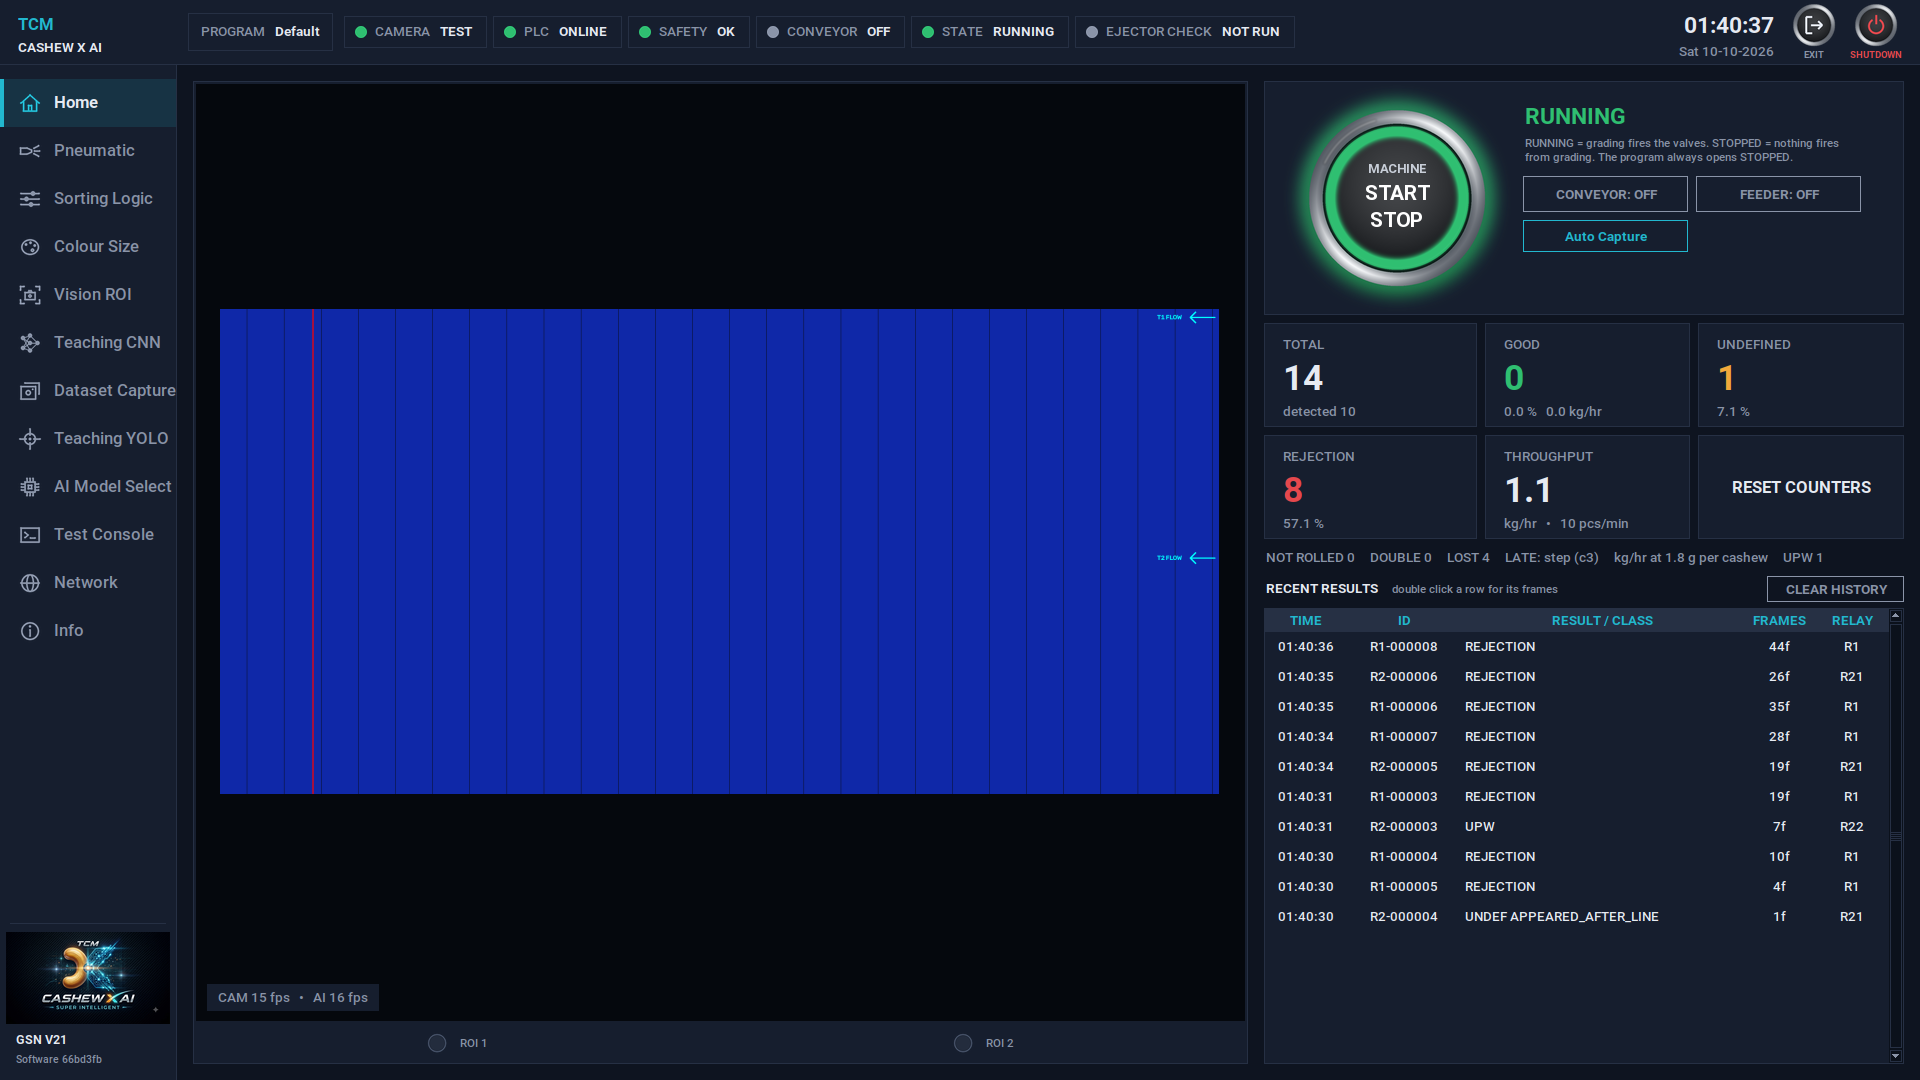
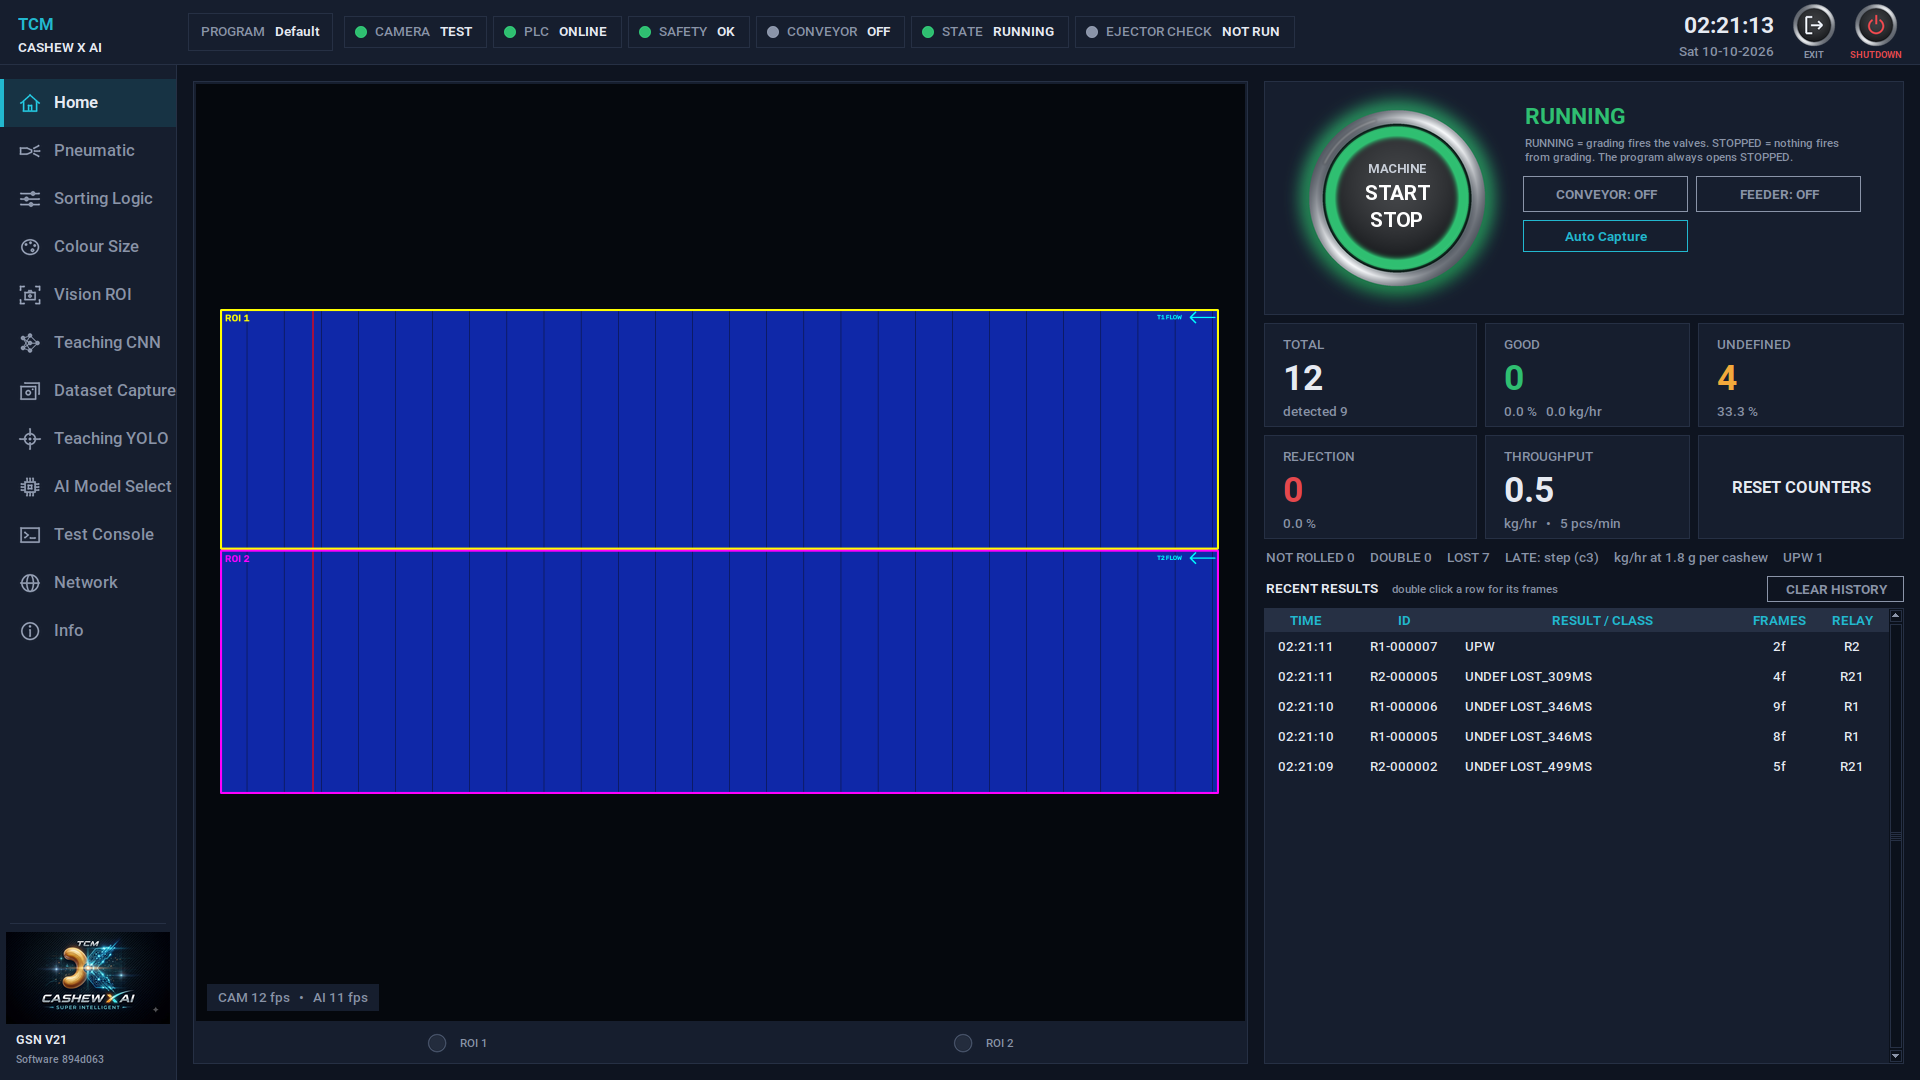
Home: ROI boxes drawn again while RUNNING; LOST rows log where the cashew was seen
The running view shows only the ROI crops and never drew the boxes; they are
now drawn just inside each ROI (ROI 1 yellow, ROI 2 magenta) with the name.
A LOST row now records first / last position, box size, speed and the nearest
other cashew, so the cause can be read from logs/cashews_*.csv.

diff --git a/cashew_cnn_grader.py b/cashew_cnn_grader.py
@@ -1330,6 +1330,13 @@ class ProcessingThread(threading.Thread):
                     self._decide_track(trk, rid, line, state, t_ms)
                 self._draw_track(frame, trk, grading)
 
+        # ROI boxes while RUNNING. The Home view shows only the ROI crops, so the frame is drawn just inside the ROI
+        # (a box on the ROI edge itself would be cut away) and the name sits inside it.
+        for (rid, roi), colour in zip(((1, state.get("roi1")), (2, state.get("roi2"))), (AOI_COLOR1, AOI_COLOR2)):
+            if roi:
+                x1, y1, x2, y2 = roi
+                cv2.rectangle(frame, (x1 + 2, y1 + 2), (x2 - 3, y2 - 3), colour, 3)
+                cv2.putText(frame, f"ROI {rid}", (x1 + 12, y1 + 30), cv2.FONT_HERSHEY_SIMPLEX, 0.8, colour, 2)
         self._draw_arrows(frame, state)
         return frame
 
@@ -1535,8 +1542,20 @@ class ProcessingThread(threading.Thread):
         else:
             reason = decision.LEFT_ROI_UNDECIDED if trk.info.get("left_roi") else decision.LOST_BEFORE_LINE
         self.shared_state.count_result(decision.LOST)
+        # Where it was seen and what was next to it, so the cause can be read from the log afterwards:
+        # a second box on the same cashew (nearest track very close), a cashew that really vanished, or a broken ID.
+        note = ""
+        try:
+            (t0, x0, y0), (t1, x1, y1) = trk.path[0], trk.path[-1]
+            others = [o for o in self.trackers[rid].tracks if o is not trk]
+            near = min(others, key=lambda o: abs(o.cx - trk.cx) + abs(o.cy - trk.cy)) if others else None
+            note = (f"seen {trk.hits}x in {t1 - t0:.0f} ms from ({x0:.0f},{y0:.0f}) to ({x1:.0f},{y1:.0f}); "
+                    f"box {abs(trk.box[2] - trk.box[0]):.0f}x{abs(trk.box[3] - trk.box[1]):.0f} px; speed {trk.v:.2f} px/ms; "
+                    + (f"nearest other cashew {near.id} at {abs(near.cx - trk.cx):.0f},{abs(near.cy - trk.cy):.0f} px" if near else "no other cashew in the ROI"))
+        except Exception:
+            pass
         self.cashew_log.write({"id": trk.id, "roi": rid, "frames": len(trk.frames), "result": decision.LOST, "reason": reason,
-                               "fire": "NOT_FIRED"})
+                               "fire": "NOT_FIRED", "shadow": note})
 
     def _draw_track(self, frame, trk, grading):
         x1, y1, x2, y2 = [int(v) for v in trk.box]
